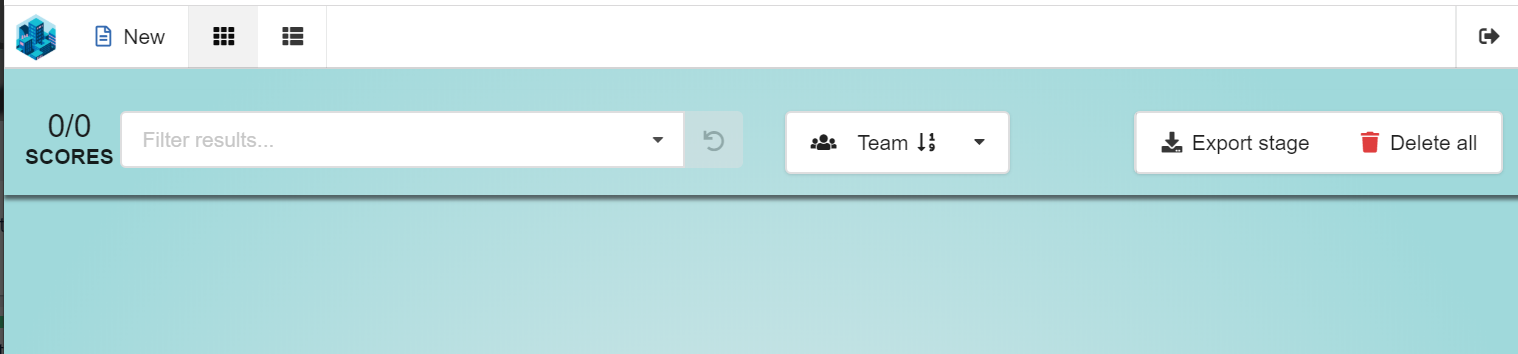
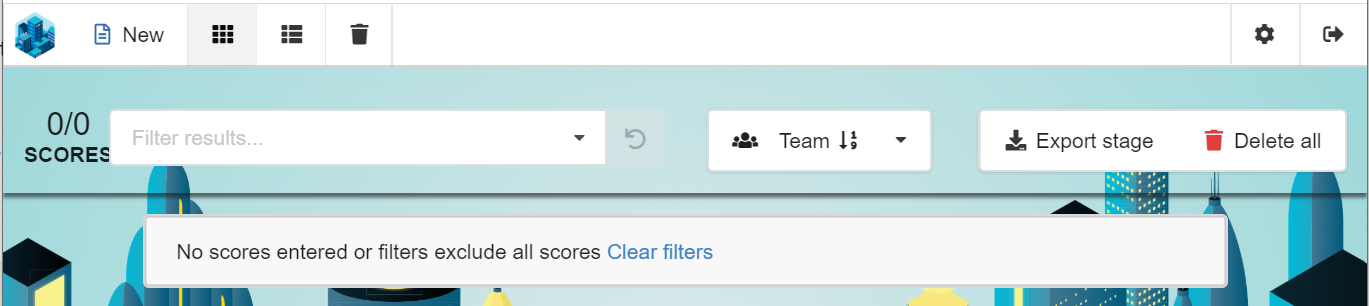
Updates for 1.4

diff --git a/docs/userguide.md b/docs/userguide.md
@@ -1,5 +1,6 @@
 # *FIRST* LEGO League TMS User Guide
 
+Upcoming release: 1-Mar-2020 for v2019.1.4 ([Release Notes](#release-notes))
 Last Updated: 1-Feb-2020 for v2019.1.3 ([Release Notes](#release-notes))
 
 This guide is intended to help *FIRST* LEGO League tournament orgnizers use the Tournament Management System (TMS).
@@ -28,7 +29,7 @@ You can also watch a [recording of the Webinar](https://register.gotowebinar.com
   - [Matches](#matches)
 - [Scoring](#scoring)
   - [Scoresheet](#scoresheet)
-  - [Score management screen](#score-management-screen)
+  - [Score management screen](#scorekeeper-or-admin-login)
   - [Scoring tiles](#scoring-tiles)
     - [Scoring tile](#scoring-tile)
     - [Duplicate scores](#duplicate-scores)
@@ -165,7 +166,7 @@ Configure the [Scoring](#scoring) module settings.
 - `Require a referee name` selects whether a referee name is required on a scoresheet.
 - Applies to all roles.
 - Default: YES
-- `Auto-publish team scores` - When configured to YES, scores will be sent to the `Scoreboard` immediately when the referee or scorekeeper presses the `Submit` button. If configured to NO the scores must be [manually set as Public](#scoring-tile), usually by the scorekeeper.
+- `Automatically set team score to public` - When configured to YES, scores will be sent to the `Scoreboard` immediately when the referee or scorekeeper presses the `Submit` button. If configured to NO the scores must be [manually set as Public](#scoring-tile), usually by the scorekeeper.
 - Applies to all roles
 - Default: YES.
 - `Require a Table` selects whether a table name is required on a scoresheet.
@@ -247,7 +248,7 @@ The `Tournament Settings` screen is where you configure general settings for the
   - The current match is not advanced at `Timer` start if the previous timer was aborted.
   - Should you need to set the current match manually, enter a new value (or press the arrows) and then press `Save`.
 - If you have a non-default number of Practice or Ranking rounds, make the change in the `Number of rounds per stage` setting.
-- The `Schedule offset` setting is used when you have imported a full schedule file, with match times, and your tournament is running behind schedule (e.g. snow days).
+- The `Schedule offset` setting is used when you have imported a full schedule file, with match times, and your tournament is running behind schedule (e.g. snow days). See [Tournament Status Display](#tournament-status-display)
 - `Delete Tournament Data` - Use the `Delete` button to delete the Teams and Matches.  You will be asked to confirm. **Note this is permanent and deleted data cannot be recovered**. The system will verify that there are no team scores before deleting teams or matches, which means that you will have to delete scores before deleting teams (and matches). You delete scores in the `Scoring` module.
 
 ### Sponsor Logos
@@ -377,22 +378,24 @@ Note: [Require a Signature](#settings) is configurable in the Settings.
 
 ### Scorekeeper or Admin login
 
-When you login as `Scorekeeper` or `Admin` you see this screen.
+When you login as `Scorekeeper` or `Admin` you see the score management screen.
 
 <img src="./images/scoring-admin-login.png" style="width:75%">
 
 The top line has four icons:
 
-- New scoresheet
-- Score management view
-- Ranks view
-- Logout
+- [New scoresheet](#new-scoresheet)
+- [Score management view](#score-management)
+- [Ranks view](#ranks-view)
+- [Recycle bin](#recycle-bin)
+- [Score settings](#score-settings)
+- [Logout](#scoring-logout)
 
 #### New scoresheet
 
 This button opens a scoresheet as described in the referee [Scoresheet](#scoresheet).
 
-#### Score management
+### Score management
 
 This screen is used by the Head referee or Scorekeeper to view all the scores entered and to modify the team score information
 
@@ -435,7 +438,7 @@ scores entered by the `referee`.
 - `Public / Unpublic` - setting a score as `Public` causes it to appear on the `Scoreboard`. Setting it as `Unpublic` causes the score not to appear on the `Scoreboard`. Note that the default `Public` state of a new score is configured in the `Scoring` settings.
 - `No Show` sets the state of the match for a team as No Show. No Show teams are marked with a `-` on the `Scoreboard`.
 - `Edit scoresheet` - open the scoresheet for editing. `Scorekeepers` may use this to verify the missions complted by a team.
-- `Delete` - delete a score. You will be asked to confirm. **Note this is permanent and a deleted score cannot be recovered**.
+- `Delete` - delete a score. Scores are moved into the [recycle bin](#recycle-bin). Press the Undo button on `Score deleted` notification to restore a score, or go to the [recycle bin](#recycle-bin)
 
 #### Duplicate scores
 
@@ -452,6 +455,27 @@ Due to the interruption, the list of Rounds cannot be retrieved from the `Launch
 ### Ranks view
 
 TBD
+
+### Recycle bin
+
+When individual scoresheets are deleted, the scoring information is not lost. Press the bin icon to view all scores that have been deleted.
+
+<img src="./images/scoring-recycle-bin.png" style="width:75%">
+
+Press the `Restore` button to undelete a score.
+
+**Note** Pressing the `Delete all` button deletes all scores permanently.
+
+### Score settings
+
+<img src="./images/scoring-settings.png" style="width:75%">
+
+- You can set the scoresheet language for the current input device (e.g. iPad).
+- Turn off Autoscroll if you do not want the scoresheet to scroll automatically to the next mission.
+
+### Scoring logout
+
+Log out from your current role. Note that if you have other open TMS browser tabs, they will be logged out too.
 
 ## Scoreboard
 
@@ -536,11 +560,13 @@ During a match the elapsed time is overlaid onto the Scoreboard.
 
 ## Tournament Status Display
 
-This display shows whether the tournament is running ahead of schedule or behind schedule. It also shows the teams that will play in the upcoming matches.
+This display can be used to whether the tournament is running ahead of schedule or behind schedule. It shows how much time there is until the scheduled start of the next match. It also shows the teams that will play in the upcoming matches.
+
+<img src="./images/tournament-status.png" style="width:75%">
+
+If your tournament starts late (for instance, due to snow) you can adjust for this in the [Tournament Settings](#tournament-settings) screen.
 
 Note: This display can only function if a [schedule file is imported](#tournament-setup).
-
-Note: Not implemented in the beta versions or version 2018.1.0 (release date 17-Oct-2018)
 
 ## Networked Computers
 
@@ -548,8 +574,11 @@ At a larger tournament you might have a number of computers connected to each ot
 
 ### Use of iPads and tablets
 
-We have done limited testing of referee score input using iPads and WiFi. No problems were encountered. If  there is a temporary loss of connectivity when the scoresheet is submitted, the results are saved locally in the iPad, and are sent again together with the submit of the subsequent scoresheet.  
-**Note:** Additional functionality has been added since these tests. Tournament organizers that intend using iPads should coordinate this with the development team. See the About screen for contact details.
+In the CITY SHAPER season the developers used iPads and WiFi for score input. No problems were encountered. If  there is a temporary loss of connectivity when the scoresheet is submitted, the results are saved locally in the iPad, and are sent again later.
+
+A method that worked well for us was to set `Automatically set team  score to public` to off (see [Settings](#settings)), and for a Scorekeeper to verify new scores as they came in, against a printed schedule. By setting the `Unpublic` filter, the scores screen only showed new scores. After verifying that the team matched the schedule, the scorekeeper set the score to `Public`.
+
+We do not have experience with other tablets.
 
 ## Network adapters
 
